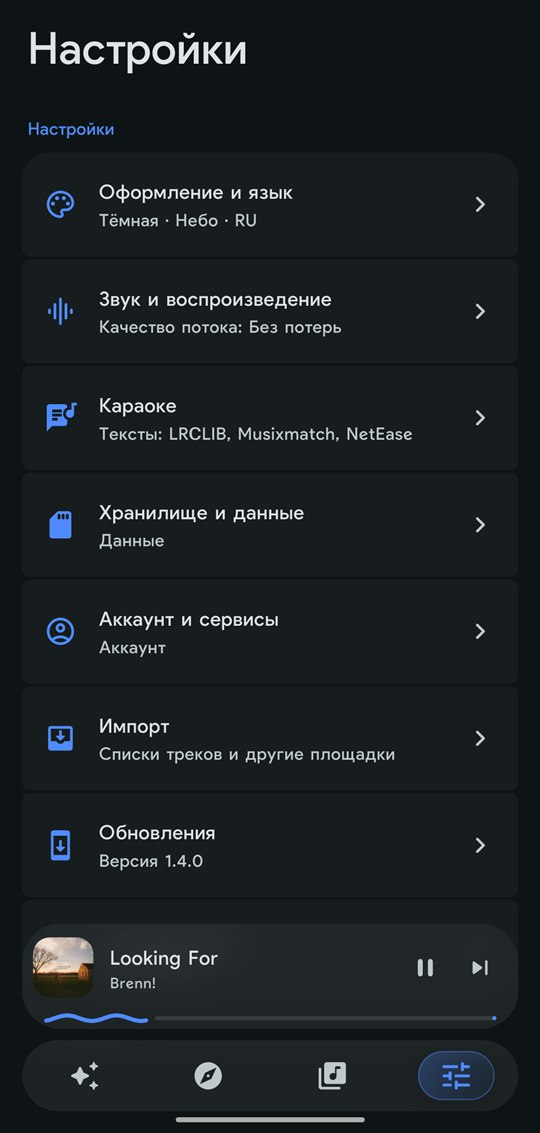
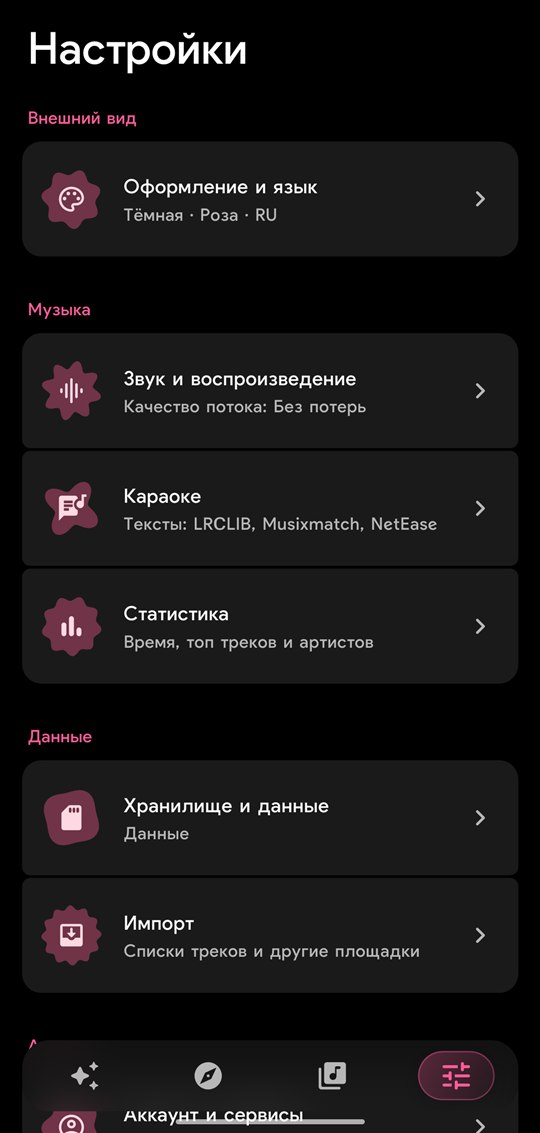
Версия 1.4.1: настройки по разделам, статистика, обновления без токена

diff --git a/README.md b/README.md
@@ -7,7 +7,7 @@
 
 <br>
 
-<a href="https://github.com/krinix1337/mimikoPlayer/releases/latest"><img alt="Версия 1.4.0" src="https://img.shields.io/badge/версия-1.4.0-D8F544?style=for-the-badge&labelColor=1C1B1F"></a>
+<a href="https://github.com/krinix1337/mimikoPlayer/releases/latest"><img alt="Версия 1.4.1" src="https://img.shields.io/badge/версия-1.4.1-D8F544?style=for-the-badge&labelColor=1C1B1F"></a>
 <img alt="Android 8.0+" src="https://img.shields.io/badge/Android-8.0%2B-3DDC84?style=for-the-badge&logo=android&logoColor=white&labelColor=1C1B1F">
 <a href="https://flutter.dev"><img alt="Flutter 3.47" src="https://img.shields.io/badge/Flutter-3.47-02569B?style=for-the-badge&logo=flutter&logoColor=white&labelColor=1C1B1F"></a>
 <img alt="203 теста" src="https://img.shields.io/badge/тесты-203-22C7A9?style=for-the-badge&labelColor=1C1B1F">
@@ -68,6 +68,7 @@
 - Свои плейлисты с синхронизацией в Яндекс
 - Офлайн: очередь загрузок, докачка, лимит места
 - Автозагрузка лайков по Wi-Fi
+- Статистика прослушиваний: время, график, топы
 
 </td>
     <td valign="top">
@@ -114,17 +115,22 @@
     <td align="center"><img src="docs/screenshots/collection.jpg" alt="Коллекция"><br><sub><b>Коллекция</b></sub></td>
     <td align="center"><img src="docs/screenshots/settings.jpg" alt="Настройки"><br><sub><b>Настройки</b></sub></td>
   </tr>
+  <tr>
+    <td></td>
+    <td align="center"><img src="docs/screenshots/stats.jpg" alt="Статистика прослушиваний"><br><sub><b>Статистика</b></sub></td>
+    <td></td>
+  </tr>
 </table>
 </div>
 
 ## 📦 Установка
 
-1. Скачайте `mimikoPlayer-1.4.0.apk` со страницы **[Releases](https://github.com/krinix1337/mimikoPlayer/releases/latest)**.
+1. Скачайте `mimikoPlayer-1.4.1.apk` со страницы **[Releases](https://github.com/krinix1337/mimikoPlayer/releases/latest)**.
 2. Откройте файл и разрешите установку из этого источника.
 3. Войдите в Яндекс в разделе **Настройки → Аккаунт и сервисы**. SoundCloud и локальные файлы работают без входа.
 
 > [!TIP]
-> Дальше обновляться можно из самого приложения: **Настройки → Обновления**. Нужен fine-grained токен GitHub с доступом *Contents: Read-only*; он хранится только на телефоне.
+> Дальше обновляться можно из самого приложения: **Настройки → Обновления**. Когда выходит новая версия, у пункта появляется значок.
 
 > [!IMPORTANT]
 > На Xiaomi с HyperOS отключите для приложения оптимизацию батареи и разрешите автозапуск — иначе система может останавливать фоновое воспроизведение и загрузки.
@@ -191,8 +197,6 @@ adb logcat -s flutter | grep frames
 
 </details>
 
-> [!WARNING]
-> Не передавайте `--dart-define=GITHUB_TOKEN=...` в сборки, которые раздаёте другим: токен окажется внутри APK.
 
 ## ⚖ Лицензия и данные
 
